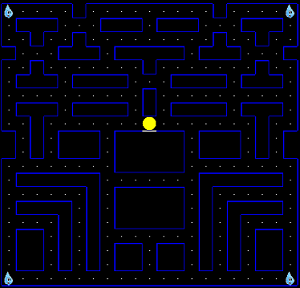
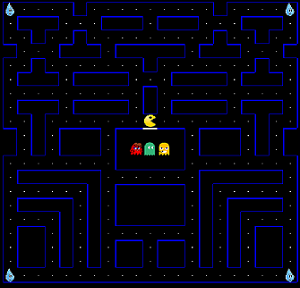
add mazes and change Images

Changed region(s): [[0.0, 0.0, 1.0, 1.0]]

diff --git a/src/Logic/Globals.java b/src/Logic/Globals.java
@@ -109,11 +109,11 @@ public class Globals {
         try { images[3][2] = ImageIO.read(new File(imagesPath+"\\strawberry.png")); }
         catch (IOException e) { e.printStackTrace(); }
         images[4] = new BufferedImage[3];
-        try { images[4][0] = ImageIO.read(new File(imagesPath+"\\ginky.png")); }
+        try { images[4][0] = ImageIO.read(new File(imagesPath+"\\ginky1.png")); }
         catch (IOException e) { e.printStackTrace(); }
-        try { images[4][1] = ImageIO.read(new File(imagesPath+"\\inky.png")); }
+        try { images[4][1] = ImageIO.read(new File(imagesPath+"\\YellowGost1.png")); }
         catch (IOException e) { e.printStackTrace(); }
-        try { images[4][2] = ImageIO.read(new File(imagesPath+"\\blinky.png")); }
+        try { images[4][2] = ImageIO.read(new File(imagesPath+"\\BlinkyRed1.jpg")); }
         catch (IOException e) { e.printStackTrace(); }
         images[5] = new BufferedImage[2];
         try { images[5][0] = ImageIO.read(new File(imagesPath+"\\water.png")); }
